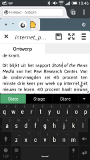
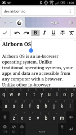
Update copy and images

diff --git a/content.html b/content.html
@@ -10,20 +10,20 @@
 		<input type="password" id="password"><br>
 		<input type="submit" id="login"><br>
 		<input type="checkbox" id="save"> <label id="label" for="save"></label>
-		<div id="whatisit">An Operating System in your browser</div>
+		<div id="whatisit">Documents in the Cloud, Securely</div>
 		<div id="tricolon">
 			<div class="colon">
-				<a target="_top" href="images/files-anywhere.png"><img class="screenshot" src="images/files-anywhere-small.png"></a>
+				<a target="_top" href="images/files-anywhere.png"><div class="image phone"><img src="images/files-anywhere-small.png"></div></a>
 				<span class="header">Create files and edit them anywhere</span>
 				<span class="body">Log into Airborn OS in any browser from any computer or from your mobile browser.</span>
 			</div>
 			<div class="colon">
-				<a target="_top" href="images/apps-anywhere.png"><img class="screenshot" src="images/apps-anywhere-small.png"></a>
+				<a target="_top" href="images/apps-anywhere.png"><div class="image laptop"><img src="images/apps-anywhere-small.png"></div></a>
 				<span class="header">Install apps and use them anywhere</span>
 				<span class="body">The apps you install inside Airborn OS are still there when you open Airborn OS on another computer.</span>
 			</div>
 			<div class="colon">
-				<a target="_top" href="/docs/security"><img src="images/client-side-encryption.png"></a>
+				<a target="_top" href="/docs/security"><img class="image" src="images/client-side-encryption.png"></a>
 				<span class="header">Files and apps client-side encrypted</span>
 				<span class="body">All your files are encrypted with your password before they leave your computer. <a target="_top" href="/docs/security">Read more&hellip;</a></span>
 			</div>

diff --git a/content.css b/content.css
@@ -64,16 +64,51 @@ body {
 	margin-right: 30px;
 	text-align: left;
 }
-#tricolon .colon img {
+#tricolon .colon .image {
 	height: 160px;
 	width: 90px;
 	float: left;
 	margin: 3px;
 	margin-bottom: 5px;
 }
-#tricolon .colon img.screenshot {
+#tricolon .colon .phone {
+	border: 2px solid black;
+	border-radius: 14px;
+	padding: 5px;
+	padding-bottom: 20px;
+}
+#tricolon .colon .phone img {
 	border-radius: 10px;
-	box-shadow: 0 0 5px 2px rgba(0, 0, 0, .5);
+	opacity: .8;
+}
+#tricolon .colon .laptop {
+	overflow: hidden;
+	position: relative;
+	perspective: 100px;
+	perspective-origin: 90%;
+	padding-left: 50px;
+	margin-left: -50px;
+	box-sizing: content-box;
+}
+#tricolon .colon .laptop:before, #tricolon .colon .laptop:after {
+	content: '';
+	display: block;
+	width: 177px;
+	height: 125px;
+	border: 2px solid black;
+	border-radius: 14px;
+}
+#tricolon .colon .laptop:after {
+	transform: rotateX(90deg) scaleY(.30);
+	transform-origin: top;
+	border-width: 2px;
+}
+#tricolon .colon .laptop img {
+	border-radius: 10px 0 0 10px;
+	opacity: .8;
+	position: absolute;
+	top: 7px;
+	left: 57px;
 }
 #tricolon .colon .header {
 	margin-bottom: 5px;
@@ -128,6 +163,9 @@ body {
 	margin: 0 1px;
 	color: #374A55;
 	font-weight: bold;
+}
+#links-container #emphasized #try {
+	font-size: larger;
 }
 #links-container a {
 	color: #E1E7EA;

diff --git a/server.js b/server.js
@@ -556,7 +556,7 @@ app.get('/docs/:id', function(req, res) {
 		}
 		fs.readFile('docs/docs.html', 'utf8', function(err, docs) {
 			res.send(200, Mustache.render(docs, {
-				title: contents.split('\n')[0].replace('# ', ''),
+				title: contents.match(/^# (.*)$/m)[1],
 				contents: markdown.toHTML(contents, 'Maruku')
 			}));
 		});

diff --git a/docs/docs.css b/docs/docs.css
@@ -63,7 +63,7 @@ body:before {
 		box-shadow: inset 0 0 5px rgba(0, 0, 0, .5);
 	}
 	.img-container.security {
-		margin-top: -100px;
+		margin-top: 100px;
 	}
 }
 @media (max-width: 768px) {

diff --git a/docs/security.md b/docs/security.md
@@ -1,17 +1,7 @@
-# Security
-
-## What you can do
-
-1. Don't use Airborn OS on computers you don't trust
-2. Always log out of Airborn OS when you leave your computer, even if for a
-   little while
-3. Choose a long password, or choose a short sentence as your password,
-   or use a password manager
-4. Use Airborn OS with Firefox with [this addon][] installed
-
-
 ![Client-Side Encryption](images/client-side-encryption.png)
 {: .img-container .security #sidebar}
+
+# Security
 
 ## What we did, or What we can't see
 
@@ -35,6 +25,16 @@ see it.
 
 We don't protect your anonymity. Unless you protect it yourself, we can
 see where in the world you're accessing Airborn OS from.
+
+
+## What you can do
+
+1. Don't use Airborn OS on computers you don't trust
+2. Always log out of Airborn OS when you leave your computer, even if for a
+   little while
+3. Choose a long password, or choose a short sentence as your password,
+   or use a password manager
+4. Use Airborn OS with Firefox with [this addon][] installed
 
 
 [this addon]: https://addons.mozilla.org/firefox/addon/hcs-checker/
